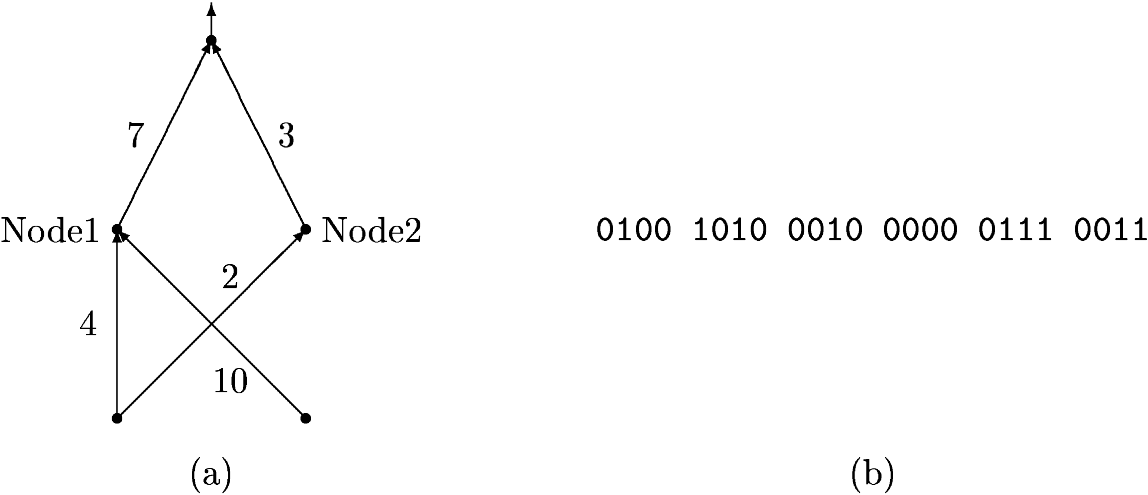
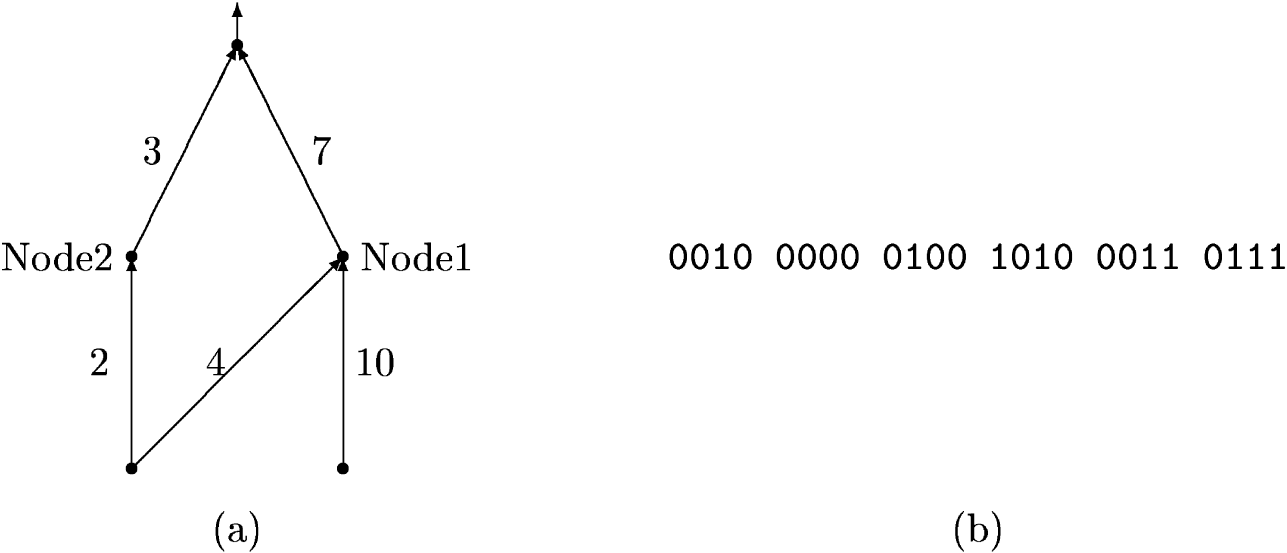
Add illustration binary encoding ANN

diff --git a/neuroevolution_of_augmenting_topologies_paper_3.tex b/neuroevolution_of_augmenting_topologies_paper_3.tex
@@ -111,8 +111,8 @@ The defining advantage of genetic algorithms by representing members as a geneti
 To come full circle is now a proper definition of Neuroevolution possible. Neuroevolution is the - possibly boundless - process in which by the means of a genetic algorithm its population of artificial neural networks is increasingly optimized in order to maximize the accuracy or fitness of the best ANN. Neuroevolution does so by continuously improving the members in its population through intercombination methods like mutation, recombination and selection.
 
 \begin{figure}
-    \includegraphics[width=0.45\textwidth]{{Competing_Conventions_Crossover_-_sta02_2}}
-    \caption{Illustration of the 'Competing Conventions Problem'. (Source: \cite{sta02_2})}
+    \includegraphics[width=0.45\textwidth]{{Binary_ANN_Encoding_-_yao99}}
+    \caption{Illustration of a binary encoding of an ANN. (Source: \cite{yao99})}
     \label{ill:binary_encoding}
 \end{figure}
 
